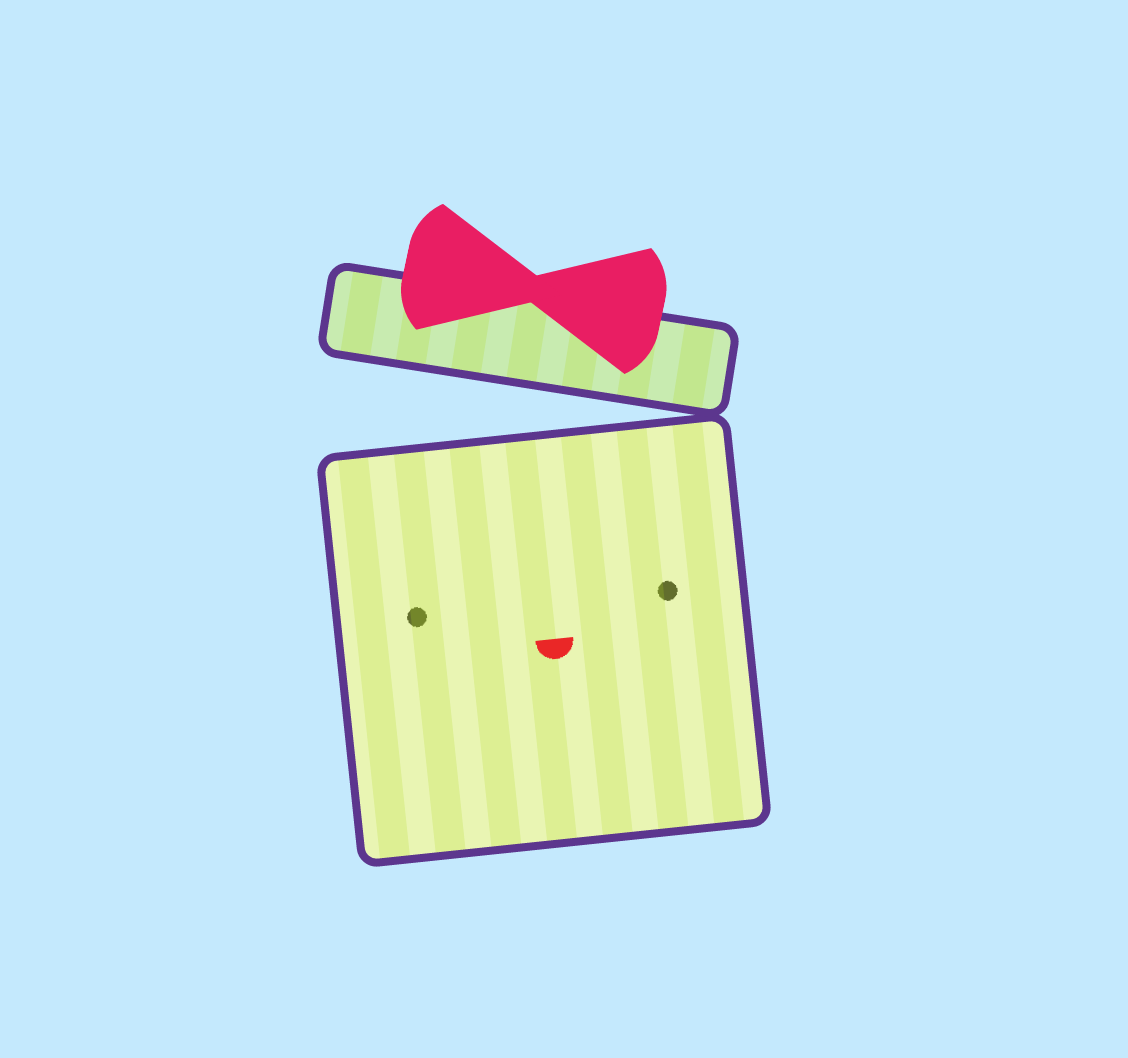
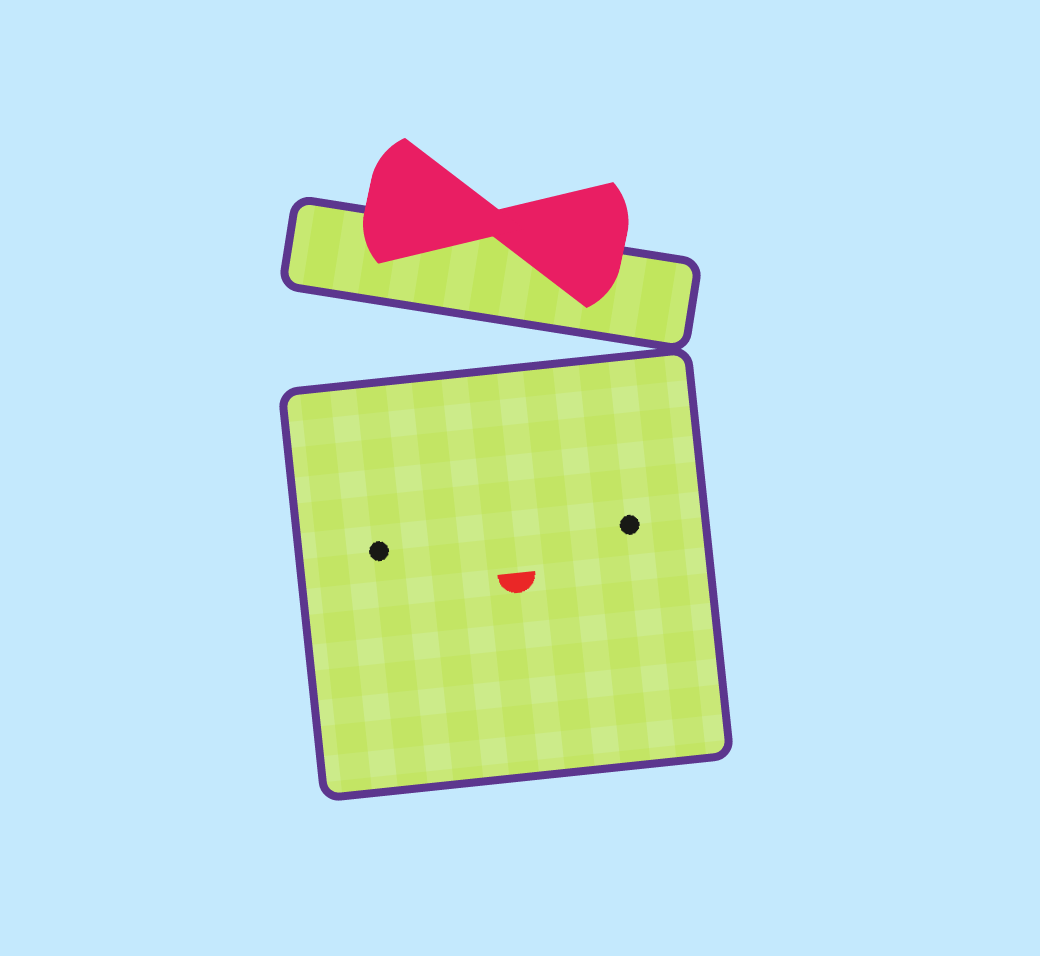
gift

Changed region(s): [[0.2462, 0.1517, 0.7077, 0.8494]]

diff --git a/files/day22.html b/files/day22.html
@@ -12,10 +12,10 @@ body {
     border: solid 4px #5C368E;
     transform: rotate(-6deg);
     border-radius: 10px;
-    background: radial-gradient(ellipse farthest-corner at 10px 0px, #ea2727 10px, rgba(232, 224, 224, 0.06) 10px), linear-gradient(90deg, rgba(192, 230, 55, 0.56) 15px, rgba(205, 237, 78, 0.44) 15px), radial-gradient(circle, rgb(0, 0, 0) 5px, white 5px);
+    background: radial-gradient(circle, rgba(19, 18, 18, 0.97) 5px, rgba(255, 255, 255, 0) 5px), radial-gradient(ellipse farthest-corner at 10px 0px, #ea2727 10px, rgba(232, 224, 224, 0.06) 10px), linear-gradient(90deg, rgba(192, 230, 55, 0.56) 15px, rgba(205, 237, 78, 0.44) 15px), linear-gradient(rgba(192, 230, 55, 0.56) 15px, rgba(205, 237, 78, 0.44) 15px);
     /* background: radial-gradient(circle, rgba(255, 255, 255, 0.36), rgba(0, 0, 0, 0.24)); */
-    background-size: 200px, 28px, 126px;
-    background-position: 95px 100px, -21px 26px, -25px 19px;
+    background-size: 126px , 200px, 28px, 28px;
+    background-position: -25px 19px, 95px 100px, -21px 26px, -21px 26px;
 }
 
 .gift:before {
@@ -28,9 +28,9 @@ body {
     border-radius: 10px;
     margin-top: -74px;
     margin-left: 4px;
-    background-image: linear-gradient(90deg, rgba(192, 230, 55, 0.56) 15px, rgba(205, 237, 78, 0.44) 15px);
-    background-size: 28px;
-    background-position: 8px 1px;
+    background-image: linear-gradient(90deg, rgba(192, 230, 55, 0.56) 15px, rgba(205, 237, 78, 0.44) 15px), linear-gradient(rgba(192, 230, 55, 0.56) 15px, rgba(205, 237, 78, 0.44) 15px);
+    background-size: 28px, 28px;
+    background-position: 8px 1px, 8px 1px;
 }
 
 .gift:after {
